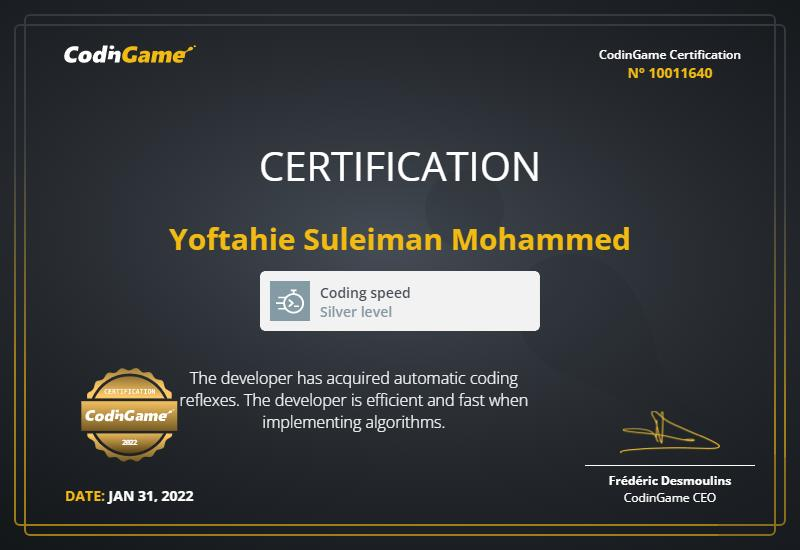
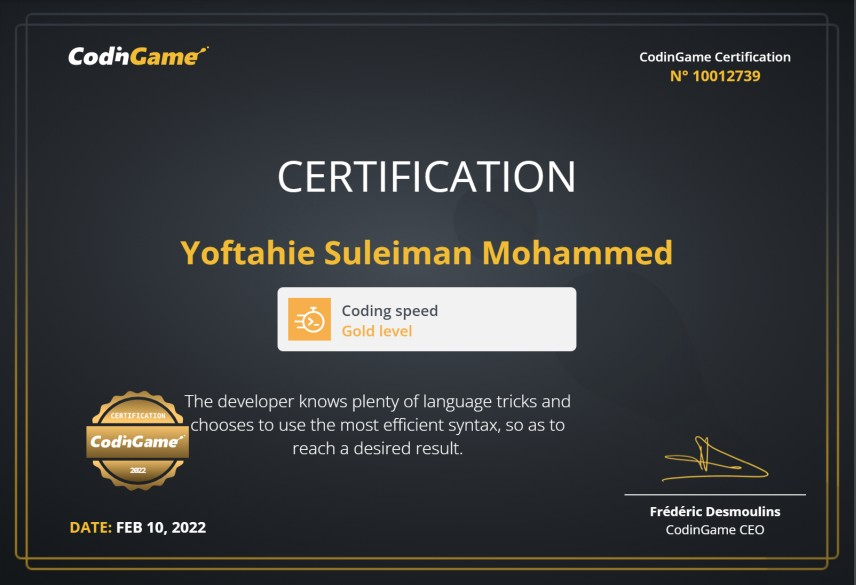
Modify PMS project

diff --git a/resources/page/EduAndEXp.html b/resources/page/EduAndEXp.html
@@ -27,9 +27,16 @@
                      University Of Gondar<br />
                      <b>CGPA: 3.11</b> 
                          </p>
-                         <img onclick="showImage('edu1')" id="edu1" src="../images/certification/problem_solving.png" alt="Degree" class="image-icon" />    
+                         <img onclick="showImage('edu1')" id="edu1" src="../images/education/Degree.jpg" alt="Degree" class="image-icon" />    
+                         <img onclick="showImage('edu2')" id="edu2" src="../images/education/Transcript1.jpg" alt="Transcript Page 1" class="image-icon" />    
+                         <img onclick="showImage('edu3')" id="edu3" src="../images/education/Transcript2.jpg" alt="Transcript Page 2" class="image-icon" />    
                 </section>
-               
+                <div id="myModal" class="modal">
+                    <span class="close">&times;</span>
+                    <img class="modal-content" id="img01">
+                    <div id="caption"></div>
+                  </div>
+
                 <section id="Certification">
                     <h1>Certifications</h1>
                     <table class="">
@@ -41,8 +48,8 @@
                             <tr><td>Full-Stack Engineer Career Path</td><td>A 6 month online course that covers both back-end and front-end developement.</td><td>CodeCademy</td><td>March, 2021</td><td><img onclick="showImage('cert2')" id="cert2" src="../images/certification/Full_Stack.jpg" alt="Full-Stack Engineer Career Path Certificate" class="image-icon"></td></tr>
                             <tr><td>React</td><td>A 20 hours online course</td><td>CodeCademy</td><td>March,2021</td><td><img onclick="showImage('cert3')" id="cert3" src="../images/certification/react.jpg" alt="React Certificate" class="image-icon"></td></tr>
                             <tr><td>Build a Website with HTML, CSS, and Github Pages Skill Path</td><td>A 10 weeks online course that has front end topics and Github pages.</td><td>CodeCademy</td><td>March, 2021</td><td><img onclick="showImage('cert4')" id="cert4" src="../images/certification/Github.jpg" alt="Github Certificate" class="image-icon"></td></tr>
-                            <tr><td>Coding Speed Certificate</td><td>By solving problems and participating in clash of code in codingame.com</td><td>CodinGame.com</td><td>Jan, 2022</td><td><img onclick="showImage('cert5')" id="cert5" src="../images/certification/coding_speed.jpg" alt="Coding Speed Certificate(Gold level)" class="image-icon"></td></tr>
-                            <tr><td>C# certificate</td><td>An online skill assessment by codingame.com</td><td>CodinGame.com</td><td>February, 2022</td><td><img onclick="showImage('cert6')" id="cert6" src="../images/certification/C#.jpg" alt="C# Certificate" class="image-icon"></td></tr>
+                            <tr><td>Coding Speed Certificate</td><td>By solving problems and participating in clash of code in codingame.com</td><td>CodinGame.com</td><td>Feb, 2022</td><td><img onclick="showImage('cert5')" id="cert5" src="../images/certification/coding_speed.jpg" alt="Coding Speed Certificate(Gold level)" class="image-icon"></td></tr>
+                            <tr><td>C# certificate</td><td>An online skill assessment by codingame.com</td><td>CodinGame.com</td><td>February, 2022</td><td><img onclick="showImage('cert6')" id="cert6" src="../images/certification/Csharp.jpg" alt="C# Certificate" class="image-icon"></td></tr>
                             <tr><td>Javascript certificate</td><td>An online skill assessment by codingame.com</td><td>CodinGame.com</td><td>February, 2022</td><td><img onclick="showImage('cert7')" id="cert7" src="../images/certification/JavaScript.jpg" alt="Github Certificate" class="image-icon"></td></tr>
                         </tbody>
                     </table>   
@@ -121,6 +128,29 @@
         </div>
       </div> 
         <script src="../js/bootstrap.bundle.min.js"></script>
+        <script>
+            // Get the modal
+            showImage=imgId=>{
+              var modal = document.getElementById("myModal");
+            
+            var img = document.getElementById(imgId);
+            var modalImg = document.getElementById("img01");
+            var captionText = document.getElementById("caption");
+            
+              modal.style.display = "block";
+              modalImg.src = img.src;
+              captionText.innerHTML = img.alt;
+              var span = document.getElementsByClassName("close")[0];
+            
+          
+            span.onclick = function() { 
+              modal.style.display = "none";
+            }
+    
+            };
+           
+            
+            </script>
     </body> 
 </body>
 </html>
